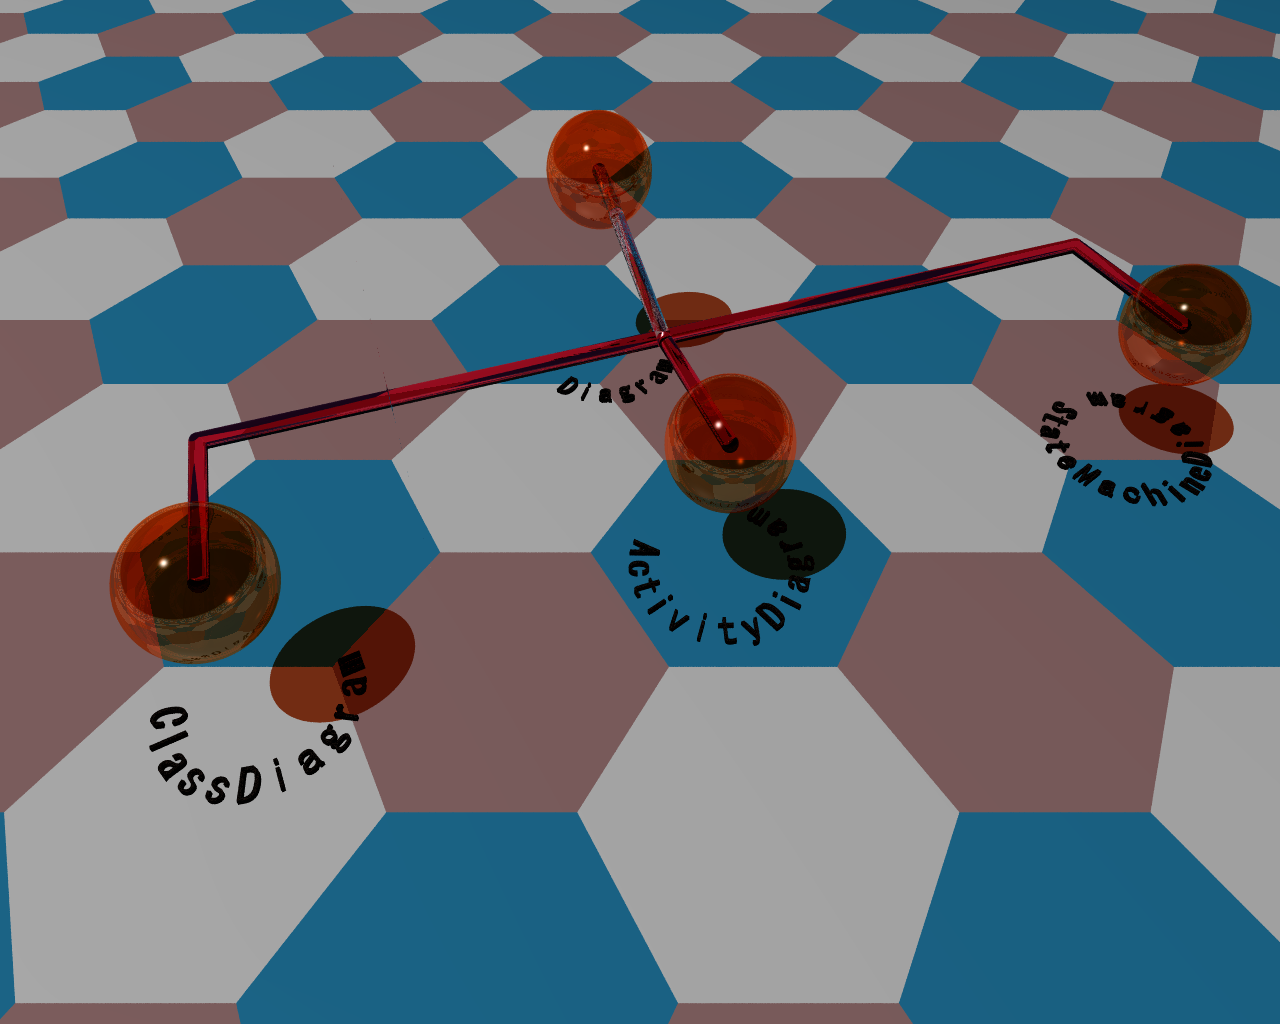
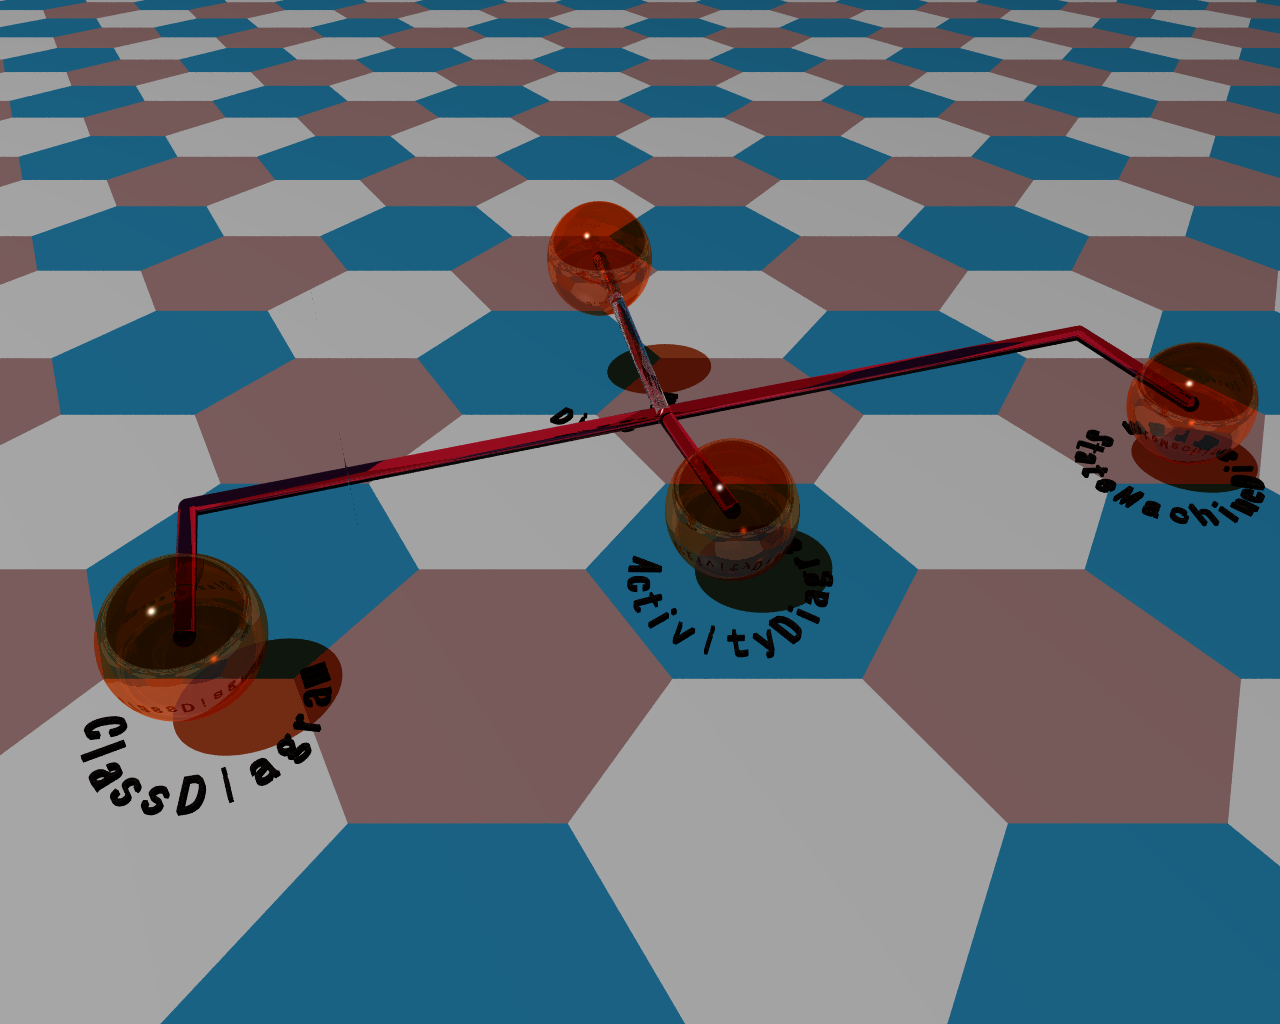
modify ClassDiagram

diff --git a/src/main/java/biz/chamos/povastah/scene/ClassDiagram.java b/src/main/java/biz/chamos/povastah/scene/ClassDiagram.java
@@ -140,7 +140,7 @@ public class ClassDiagram extends Diagram {
 	protected void correctZofNodes() {
 		for(Node node: nodes) {
 			if(classHierachyOrder.containsKey(node.getModel())) {
-				node.getLocation().setZ(classHierachyOrder.get(node.getModel()) * DEPTH_OFFSET);
+				node.getLocation().setZ((classHierachyOrder.get(node.getModel()) - 1) * DEPTH_OFFSET);
 			}
 		}
 	}

diff --git a/src/main/java/biz/chamos/povastah/shape/Node.java b/src/main/java/biz/chamos/povastah/shape/Node.java
@@ -144,7 +144,7 @@ public class Node {
 	 * @return
 	 */
 	public String vertLink() {
-		return String.format(" vert(%s, %.1f)", name, location.getZ() + LineSort.OFFSET_Z);
+		return String.format(" vert(%s, %.1f)", name, LineSort.OFFSET_Z);
 	}
 
 	/**

diff --git a/README.md b/README.md
@@ -125,7 +125,7 @@ A Tool of UML Diagram visualization by POVRay Scene Description Laungage
 	    3. 環境変数PATHに、"%JAVA_HOME%\bin"を設定する。
 
 ## Install
-- [target/povastah-X.X-SNAPSHOT.jar](https://github.com/chamosllc/povastah/tree/master/target/povastah-1.1-SNAPSHOT.jar) をastahツールのインストールディレクトリ配下のpluginsディレクトリに配置する。
+- [target/povastah-X.X-SNAPSHOT.jar](https://github.com/chamosllc/povastah/tree/master/target/povastah-1.1-SNAPSHOT.jar) をastah*ツールのインストールディレクトリ配下のpluginsディレクトリに配置する。
 - [includes](https://github.com/chamosllc/povastah/tree/master/includes)配下のインクルードファイル"povastah.inc", "umlTexture.inc", "povastahParts.inc"をPOVRayのインクルードファイルディレクトリに配置する。
 	- POVRay v3.7 デフォルト環境ディレクトリ(インストール時に指定可能)
 		- 配下に、include(インクルードファイルディレクトリ), ini(デフォルオ設定ファイルディレクトリ)等がある。
